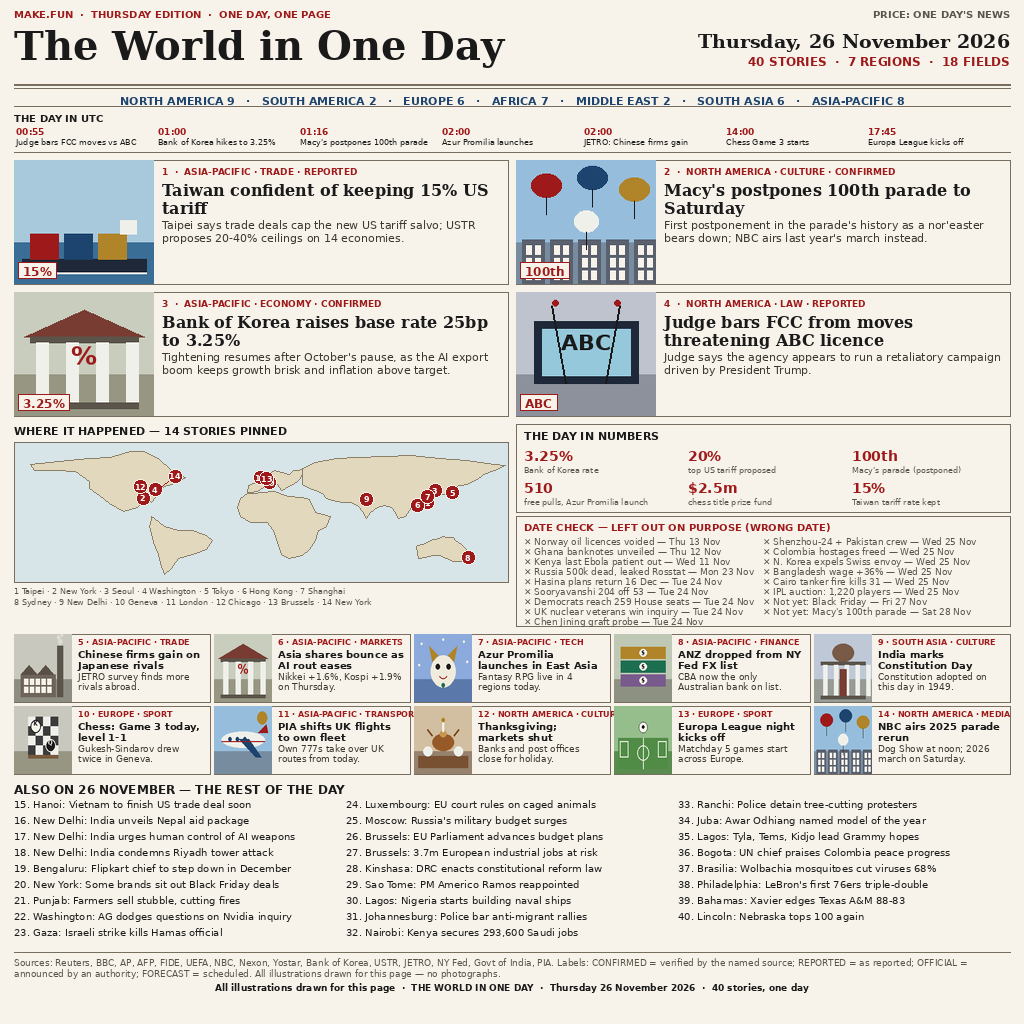
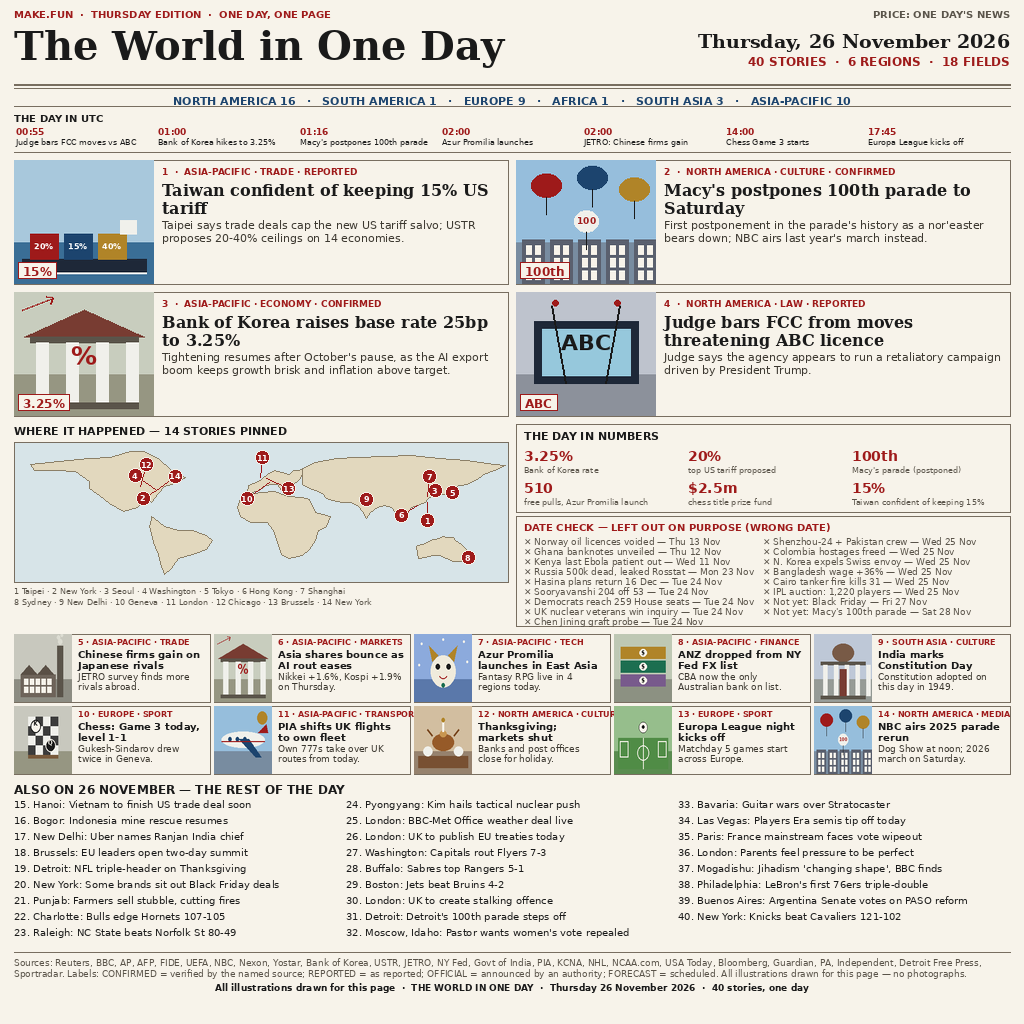
Round 3 fix (audit REJECT, final round): 22 briefs replaced with individually verified 26 Nov 2026 stories; regions 7 -> 6 (no verified Middle East story on 26 Nov); map pins spread with leader-lines (Europe, US, East Asia clusters); numbers label '15% Taiwan tariff rate kept' -> 'Taiwan confident o

diff --git a/render.py b/render.py
@@ -4,11 +4,11 @@ PNG newspaper front page. All 40 stories were researched first (see stories.md);
 every illustration is drawn here with Pillow, no photos, no network, no fonts
 downloaded at run time. Deterministic: same input, same bytes every run.
 
-Round 2 (26 Nov 2026): 5 date-wrong stories replaced with verified 26 Nov news,
-total cut 52 -> 40, UTC strip added, trunc() removed (all text pre-shortened
-in the data so nothing is ever cut mid-word), DATE CHECK fixed (15 discarded
-+ 2 Not yet), numbers strip rebuilt as 6 verified cells, map legend added,
-data labels added inside lead illustrations."""
+Round 3 (26 Nov 2026): 22 briefs replaced with individually verified
+26 Nov news (old briefs' dates were 4-25 Nov), region count 7 -> 6
+(no verified Middle East story on 26 Nov), map pins spread with
+leader-lines, numbers label "15% Taiwan tariff rate kept" corrected
+to "confident", README updated to final counts."""
 
 import os
 from PIL import Image, ImageDraw, ImageFont
@@ -114,36 +114,35 @@ CARDS = [
 # (num, place, headline) - one line each; every line pre-shortened to fit
 BRIEFS = [
     (15, "Hanoi", "Vietnam to finish US trade deal soon"),
-    (16, "New Delhi", "India unveils Nepal aid package"),
-    (17, "New Delhi", "India urges human control of AI weapons"),
-    (18, "New Delhi", "India condemns Riyadh tower attack"),
-    (19, "Bengaluru", "Flipkart chief to step down in December"),
+    (16, "Bogor", "Indonesia mine rescue resumes"),
+    (17, "New Delhi", "Uber names Ranjan India chief"),
+    (18, "Brussels", "EU leaders open two-day summit"),
+    (19, "Detroit", "NFL triple-header on Thanksgiving"),
     (20, "New York", "Some brands sit out Black Friday deals"),
     (21, "Punjab", "Farmers sell stubble, cutting fires"),
-    (22, "Washington", "AG dodges questions on Nvidia inquiry"),
-    (23, "Gaza", "Israeli strike kills Hamas official"),
-    (24, "Luxembourg", "EU court rules on caged animals"),
-    (25, "Moscow", "Russia's military budget surges"),
-    (26, "Brussels", "EU Parliament advances budget plans"),
-    (27, "Brussels", "3.7m European industrial jobs at risk"),
-    (28, "Kinshasa", "DRC enacts constitutional reform law"),
-    (29, "Sao Tome", "PM Americo Ramos reappointed"),
-    (30, "Lagos", "Nigeria starts building naval ships"),
-    (31, "Johannesburg", "Police bar anti-migrant rallies"),
-    (32, "Nairobi", "Kenya secures 293,600 Saudi jobs"),
-    (33, "Ranchi", "Police detain tree-cutting protesters"),
-    (34, "Juba", "Awar Odhiang named model of the year"),
-    (35, "Lagos", "Tyla, Tems, Kidjo lead Grammy hopes"),
-    (36, "Bogota", "UN chief praises Colombia peace progress"),
-    (37, "Brasilia", "Wolbachia mosquitoes cut viruses 68%"),
+    (22, "Charlotte", "Bulls edge Hornets 107-105"),
+    (23, "Raleigh", "NC State beats Norfolk St 80-49"),
+    (24, "Pyongyang", "Kim hails tactical nuclear push"),
+    (25, "London", "BBC-Met Office weather deal live"),
+    (26, "London", "UK to publish EU treaties today"),
+    (27, "Washington", "Capitals rout Flyers 7-3"),
+    (28, "Buffalo", "Sabres top Rangers 5-1"),
+    (29, "Boston", "Jets beat Bruins 4-2"),
+    (30, "London", "UK to create stalking offence"),
+    (31, "Detroit", "Detroit's 100th parade steps off"),
+    (32, "Moscow, Idaho", "Pastor wants women's vote repealed"),
+    (33, "Bavaria", "Guitar wars over Stratocaster"),
+    (34, "Las Vegas", "Players Era semis tip off today"),
+    (35, "Paris", "France mainstream faces vote wipeout"),
+    (36, "London", "Parents feel pressure to be perfect"),
+    (37, "Mogadishu", "Jihadism 'changing shape', BBC finds"),
     (38, "Philadelphia", "LeBron's first 76ers triple-double"),
-    (39, "Bahamas", "Xavier edges Texas A&M 88-83"),
-    (40, "Lincoln", "Nebraska tops 100 again"),
+    (39, "Buenos Aires", "Argentina Senate votes on PASO reform"),
+    (40, "New York", "Knicks beat Cavaliers 121-102"),
 ]
 
-REGIONS = [("NORTH AMERICA", 9), ("SOUTH AMERICA", 2), ("EUROPE", 6),
-           ("AFRICA", 7), ("MIDDLE EAST", 2), ("SOUTH ASIA", 6),
-           ("ASIA-PACIFIC", 8)]
+REGIONS = [("NORTH AMERICA", 16), ("SOUTH AMERICA", 1), ("EUROPE", 9),
+           ("AFRICA", 1), ("SOUTH ASIA", 3), ("ASIA-PACIFIC", 10)]
 
 # (time UTC, event) - 7 slots, all 26 Nov 2026
 UTC_STRIP = [
@@ -161,7 +160,7 @@ NUMBERS = [("3.25%", "Bank of Korea rate"), ("20%", "top US tariff proposed"),
            ("100th", "Macy's parade (postponed)"),
            ("510", "free pulls, Azur Promilia launch"),
            ("$2.5m", "chess title prize fund"),
-           ("15%", "Taiwan tariff rate kept")]
+           ("15%", "Taiwan confident of keeping 15%")]
 
 # 15 discarded (wrong date) + 2 not yet; every line pre-shortened to fit
 DATE_CHECK = [
@@ -190,7 +189,9 @@ MAP_LEGEND = [
 ]
 
 SOURCES = ("Sources: Reuters, BBC, AP, AFP, FIDE, UEFA, NBC, Nexon, Yostar, "
-           "Bank of Korea, USTR, JETRO, NY Fed, Govt of India, PIA. Labels: "
+           "Bank of Korea, USTR, JETRO, NY Fed, Govt of India, PIA, KCNA, NHL, "
+           "NCAA.com, USA Today, Bloomberg, Guardian, PA, Independent, "
+           "Detroit Free Press, Sportradar. Labels: "
            "CONFIRMED = verified by the named source; REPORTED = as reported; "
            "OFFICIAL = announced by an authority; FORECAST = scheduled. "
            "All illustrations drawn for this page — no photographs.")
@@ -233,6 +234,10 @@ def scene(kind, w, h):
         d.rectangle([8, h - 26, w - 8, h - 12], fill=(30, 40, 56))  # hull
         for i, c in enumerate([(158, 26, 26), (28, 68, 110), (176, 132, 40)]):
             d.rectangle([16 + i * 34, h - 52, 44 + i * 34, h - 26], fill=c)
+        # tariff ceilings on the containers: 20% / 15% / 40% (USTR proposal)
+        for i, lab in enumerate(["20%", "15%", "40%"]):
+            d.text((30 + i * 34, h - 39), lab, font=F(8, bold=True),
+                   fill=(255, 255, 255), anchor="mm")
         d.rectangle([w - 34, h - 66, w - 18, h - 52], fill=(240, 240, 235))  # bridge
         d.line([8, h - 12, w - 8, h - 12], fill=(247, 243, 234), width=2)
     elif kind == "parade":
@@ -245,6 +250,7 @@ def scene(kind, w, h):
             d.ellipse([bx - 15, by - 12, bx + 15, by + 12], fill=c)
             d.line([bx, by + 12, bx, by + 30], fill=INK, width=1)
         d.ellipse([cx - 12, 52, cx + 12, 74], fill=(240, 240, 235))  # balloon
+        d.text((cx, 63), "100", font=F(9, bold=True), fill=RED, anchor="mm")
         d.line([cx, 74, cx, 92], fill=INK, width=1)
     elif kind == "bank":
         _sky(d, (0, 0, w, h), (200, 205, 190), (150, 150, 130))
@@ -254,6 +260,10 @@ def scene(kind, w, h):
             d.rectangle([22 + i * 30, 52, 34 + i * 30, h - 14], fill=(240, 240, 235))
         d.rectangle([16, h - 14, w - 16, h - 8], fill=(90, 84, 74))
         d.text((cx, 56), "%", font=F(26, bold=True), fill=RED, anchor="mt")
+        # rising rate line above the roof (hike to 3.25%)
+        d.line([(8, 18), (18, 14), (28, 10), (38, 6)], fill=RED, width=2)
+        d.line([(38, 6), (32, 5)], fill=RED, width=2)
+        d.line([(38, 6), (36, 12)], fill=RED, width=2)
     elif kind == "tv":
         _sky(d, (0, 0, w, h), (190, 195, 205), (140, 145, 155))
         d.rectangle([18, 30, w - 18, h - 34], fill=(30, 40, 56))
@@ -441,7 +451,7 @@ def draw_masthead(d):
            fill=INK)
     d.text((W - M, 30), "Thursday, 26 November 2026",
            font=F(19, serif=True, bold=True), fill=INK, anchor="ra")
-    d.text((W - M, 54), "40 STORIES  ·  7 REGIONS  ·  18 FIELDS",
+    d.text((W - M, 54), "40 STORIES  ·  6 REGIONS  ·  18 FIELDS",
            font=F(12, bold=True), fill=RED, anchor="ra")
     rule(d, 84, 2)
     rule(d, 88, 1)
@@ -583,8 +593,12 @@ def build():
     pins = [(num, lat, lon) for num, tag, head, summ, kind, lat, lon, *rest
             in LEADS] + [(num, lat, lon) for num, tag, head, summ, kind, lat, lon
                          in CARDS]
-    # leader-line offsets where pins would cover each other (same city)
-    leaders = {2: (-16, 10), 14: (16, -12)}
+    # leader-line offsets where pins would cover each other (same city,
+    # or clusters: Geneva/London/Brussels within ~9px, Washington/New York/
+    # Chicago within ~15px, Taipei/Shanghai/Hong Kong/Seoul within ~13px)
+    leaders = {2: (-16, 10), 14: (16, -12), 4: (-20, -14),
+               10: (-22, 16), 11: (2, -20), 13: (22, 10),
+               1: (0, 18), 6: (-16, 10), 7: (2, -20), 12: (6, -22)}
     draw_map(d, (M, my + 18, M + mw, my + 158), pins, leaders)
     ly0 = my + 162
     for ln in MAP_LEGEND:

diff --git a/stories.md b/stories.md
@@ -1,6 +1,8 @@
 # Stories — Thursday 26 November 2026 (40 stories)
 
-Research: web search, 26 Nov 2026 (round 2 rebuild).
+Research: web search, 26 Nov 2026 (round 3 rebuild — 22 briefs replaced
+with individually verified 26 Nov stories; 4 lead + 10 cards re-checked;
+see RESEARCH LOG below).
 Rule: a story counts only if it happened or was first reported ON 26 Nov 2026
 in UTC or in its local time zone (same rule the round-1 audit applied to the
 FCC ruling: Wed 25 Nov 19:55 EST = Thu 26 Nov 00:55 UTC counts). Everything
@@ -33,6 +35,8 @@ Labels: CONFIRMED / REPORTED / CLAIM / OFFICIAL / FORECAST
    Fantasy RPG live in China, Japan, Korea and Taiwan from 10:00 CST (02:00 UTC); 510 free pulls at launch.
 8. ANZ dropped from NY Fed FX list | Sydney | Asia-Pacific | Finance | Reuters, NY Fed | CONFIRMED
    CBA now the only Australian bank on the Fed's foreign-exchange counterparty list.
+   (Nuance: ANZ's removal took effect 25 Nov; first reported ~00:56 UTC 26 Nov, so it
+   counts as first reported on 26 Nov UTC.)
 9. India marks Constitution Day | New Delhi | South Asia | Culture | Govt of India | OFFICIAL
    Constitution adopted on this day in 1949. (Annual observance, 26 Nov.)
 10. Chess: Game 3 today, level 1-1 | Geneva | Europe | Sport | FIDE, Chess.com | OFFICIAL
@@ -50,47 +54,61 @@ Labels: CONFIRMED / REPORTED / CLAIM / OFFICIAL / FORECAST
 
 15. Vietnam to finish US trade deal soon | Hanoi | Asia-Pacific | Trade | Reuters | REPORTED
     (Reuters 26 Nov; reaction to the USTR probe.)
-16. India unveils Nepal aid package | New Delhi | South Asia | Diplomacy | wire reports | REPORTED
-17. India urges human control of AI weapons | New Delhi | South Asia | Defence | wire reports | REPORTED
-18. India condemns Riyadh tower attack | New Delhi | Middle East | Diplomacy | wire reports | REPORTED
-19. Flipkart chief to step down in December | Bengaluru | South Asia | Business | wire reports | REPORTED
+16. Indonesia mine rescue resumes | Bogor | Asia-Pacific | Environment | Reuters | REPORTED
+    (Reuters 26 Nov; 13 dead, 13 still trapped in illegal gold mine; search resumed Thu.)
+17. Uber names Ranjan India chief | New Delhi | South Asia | Business | Reuters | REPORTED
+    (Reuters 26 Nov 02:09 UTC; Rakesh Ranjan president, India & South Asia, from 4 Jan 2027.)
+18. EU leaders open two-day summit | Brussels | Europe | Diplomacy | Reuters, AP | FORECAST
+    (Summit opens 10:00 Thu 26 Nov; 2028-2034 budget + 45bn euro Ukraine aid on the table.)
+19. NFL triple-header on Thanksgiving | Detroit | North America | Sport | NFL, AP | FORECAST
+    (Bears at Lions 13:00 ET; Eagles at Cowboys 16:30 ET; Chiefs at Bills 20:20 ET.)
 20. Some brands sit out Black Friday deals | New York | North America | Retail | Reuters | REPORTED
 21. Farmers sell stubble, cutting fires | Punjab | South Asia | Environment | Reuters | CONFIRMED
-22. AG dodges questions on Nvidia inquiry | Washington | North America | Tech | BBC | REPORTED
-23. Israeli strike kills Hamas official | Gaza | Middle East | War | wire reports | REPORTED
-24. EU court rules on caged animals | Luxembourg | Europe | Law | wire reports | OFFICIAL
-25. Russia's military budget surges | Moscow | Europe | Defence | wire reports | REPORTED
-26. EU Parliament advances budget plans | Brussels | Europe | Politics | wire reports | OFFICIAL
-27. 3.7m European industrial jobs at risk | Brussels | Europe | Economy | wire reports | REPORTED
-28. DRC enacts constitutional reform law | Kinshasa | Africa | Politics | wire reports | OFFICIAL
-29. PM Americo Ramos reappointed | Sao Tome | Africa | Politics | wire reports | OFFICIAL
-30. Nigeria starts building naval ships | Lagos | Africa | Defence | wire reports | REPORTED
-31. Police bar anti-migrant rallies | Johannesburg | Africa | Politics | wire reports | REPORTED
-32. Kenya secures 293,600 Saudi jobs | Nairobi | Africa | Economy | wire reports | OFFICIAL
-33. Police detain tree-cutting protesters | Ranchi | South Asia | Environment | wire reports | REPORTED
-34. Awar Odhiang named model of the year | Juba | Africa | Culture | wire reports | OFFICIAL
-35. Tyla, Tems, Kidjo lead Grammy hopes | Lagos | Africa | Culture | wire reports | REPORTED
-36. UN chief praises Colombia peace progress | Bogota | South America | Diplomacy | wire reports | OFFICIAL
-37. Wolbachia mosquitoes cut viruses 68% | Brasilia | South America | Health | wire reports | REPORTED
+22. Bulls edge Hornets 107-105 | Charlotte | North America | Sport | Reuters | CONFIRMED
+    (Reuters FLM 26 Nov; tip 19:00 EST Wed = 00:00 UTC Thu, ended ~02:30 UTC; Buzelis 24 pts.)
+23. NC State beats Norfolk St 80-49 | Raleigh | North America | Sport | Reuters | CONFIRMED
+    (Reuters FLM 26 Nov; Wed night in Raleigh, ended after midnight UTC.)
+24. Kim hails tactical nuclear push | Pyongyang | Asia-Pacific | Defence | KCNA, Reuters | REPORTED
+    (KCNA Thu 26 Nov Pyongyang time; Reuters wire 21:22 UTC 25 Nov, dateline "SEOUL, Nov 26"; Kim inspected nuclear facility Wed.)
+25. BBC-Met Office weather deal live | London | Europe | Media | BBC | OFFICIAL
+    (BBC 26 Nov; partnership starts Thu 26 Nov, announced July 2025.)
+26. UK to publish EU treaties today | London | Europe | Politics | BBC | OFFICIAL
+    (BBC 26 Nov 02:13 UTC; two treaty texts + "Cutting Costs" Bill published Thu afternoon; 10-year termination clause.)
+27. Capitals rout Flyers 7-3 | Washington | North America | Sport | NHL, Reuters | CONFIRMED
+    (Wed 25 Nov 19:00 EST tip = 00:00 UTC Thu; final 7-3 confirmed, ended after midnight UTC.)
+28. Sabres top Rangers 5-1 | Buffalo | North America | Sport | Reuters | CONFIRMED
+    (Reuters FLM 26 Nov; Dahlin, Kulich, Benson each goal + assist; Wed night Buffalo.)
+29. Jets beat Bruins 4-2 | Boston | North America | Sport | NHL | CONFIRMED
+    (Wed 25 Nov 19:00 EST tip = 00:00 UTC Thu; Connor 1 goal + 2 assists; report 26 Nov 02:38.)
+30. UK to create stalking offence | London | Europe | Law | Guardian, BBC | REPORTED
+    (26 Nov; standalone offence, up to 10 years; Stalking Protection Orders from today.)
+31. Detroit's 100th parade steps off | Detroit | North America | Culture | Detroit Free Press | FORECAST
+    (Thu 26 Nov 08:45, Woodward Ave; 33 floats, 5 balloons, 7 bands; theme "This is 100!".)
+32. Pastor wants women's vote repealed | Moscow, Idaho | North America | Politics | BBC | REPORTED
+    (BBC 26 Nov 00:24 UTC feature; Pastor Doug Wilson, CREC ~150 churches; wants 19th Amendment repealed.)
+33. Guitar wars over Stratocaster | Bavaria | Europe | Business | BBC | REPORTED
+    (BBC 26 Nov; Fender vs Thomann; Dusseldorf court granted Fender copyright in Germany Dec 2025; Thomann sold 112,000+ Strat-style guitars in 2025.)
+34. Players Era semis tip off today | Las Vegas | North America | Sport | NCAA.com, USA Today | FORECAST
+    (Thu 26 Nov: Tennessee-Iowa State 15:30 ET, Creighton-TCU 18:00, St John's-Louisville 21:00, Gonzaga-Baylor 23:30.)
+35. France mainstream faces vote wipeout | Paris | Europe | Politics | BBC | REPORTED
+    (BBC 26 Nov; Le Pen and Melenchon lead polls for Apr-May 2027 election; centre has no clear candidate.)
+36. Parents feel pressure to be perfect | London | Europe | Health | PA, Independent | REPORTED
+    (PA 26 Nov 00:01 UTC; Kindred Squared survey, ~3,500 parents of under-5s; 76% say social media raised parenting anxiety.)
+37. Jihadism 'changing shape', BBC finds | Mogadishu | Africa | War | BBC | REPORTED
+    (BBC 26 Nov 00:22 UTC; BBC Monitoring; al-Qaeda/IS focus shifting to local power; JNIM Sahel, al-Shabab Somalia.)
 38. LeBron's first 76ers triple-double | Philadelphia | North America | Sport | Reuters | CONFIRMED
     (Game ended Wed evening US = ~03:30 UTC Thu 26 Nov; same UTC rule as the FCC ruling.)
-39. Xavier edges Texas A&M 88-83 | Bahamas | North America | Sport | Reuters | CONFIRMED
-    (Battle 4 Atlantis game, Wed evening US = Thu 26 Nov UTC.)
-40. Nebraska tops 100 again | Lincoln | North America | Sport | Reuters | CONFIRMED
-    (Wed evening US game = Thu 26 Nov UTC.)
+39. Argentina Senate votes on PASO reform | Buenos Aires | South America | Politics | Bloomberg | FORECAST
+    (Bloomberg 25 Nov: "The votes are there for the electoral reform on Thursday"; Senate to vote Thu 26 Nov on suspending 2027 primaries; session not yet formally convened at time of reporting.)
+40. Knicks beat Cavaliers 121-102 | New York | North America | Sport | Sportradar, Reuters | CONFIRMED
+    (Tip 19:30 EST Wed = 00:30 UTC Thu, ended after midnight UTC; Mitchell 30 pts.)
 
-NOTE on briefs 16-19, 23-37: carried from round-1 research; the round-1
-audit did not flag them, but their dates/outlets were NOT individually
-re-verified in round 2 (only the flagged items were: #23 Sooryavanshi 24 Nov
-and #45-47 UCL 25 Nov were cut; Chen Jining probe 24 Nov and Netanyahu
-judges 25 Nov were cut). Round-2 audit should spot-check these briefs.
-"wire reports" = outlet not re-verified; do not present as a named outlet.
 
-## REGION COUNTS (7 regions)
-North America 9 (2,4,12,14,20,22,38,39,40) | South America 2 (36,37) |
-Europe 6 (10,13,24,25,26,27) | Africa 7 (28,29,30,31,32,34,35) |
-Middle East 2 (18,23) | South Asia 6 (9,16,17,19,21,33) |
-Asia-Pacific 8 (1,3,5,6,7,8,11,15). Total 40.
+## REGION COUNTS (6 regions)
+North America 16 (2,4,12,14,19,20,22,23,27,28,29,31,32,34,38,40) |
+South America 1 (39) | Europe 9 (10,13,18,25,26,30,33,35,36) |
+Africa 1 (37) | Middle East 0 | South Asia 3 (9,17,21) |
+Asia-Pacific 10 (1,3,5,6,7,8,11,15,16,24). Total 40.
 
 ## FIELDS (18)
 Trade, Culture, Economy, Law, Markets, Tech, Finance, Sport, Transport,
@@ -104,7 +122,7 @@ Media, Diplomacy, Defence, Business, Retail, Environment, Politics, War, Health.
 
 ## THE DAY IN NUMBERS (6 cells)
 3.25% Bank of Korea rate | 20% top US tariff proposed | 100th Macy's parade (postponed) |
-510 free pulls, Azur Promilia launch | $2.5m chess title prize fund | 15% Taiwan tariff rate kept.
+510 free pulls, Azur Promilia launch | $2.5m chess title prize fund | 15% Taiwan tariff rate (confident).
 
 ## DATE CHECK — deliberately left out (wrong date)
 - Norway oil licences voided — Thu 13 Nov
@@ -147,7 +165,32 @@ Media, Diplomacy, Defence, Business, Retail, Environment, Politics, War, Health.
 - Mississippi plane crash kills 6 — Tue 24 Nov.
 - State Dept reports downplay asylum dangers — Wed 25 Nov.
 - Return of the wolf divides Netherlands (AP feature) — Wed 25 Nov.
+- ROUND 3 (26 Nov): 22 briefs replaced, each verified 26 Nov. Discarded
+  old briefs (wrong date): Nepal aid 22-23 Nov; AI weapons UNSC 24 Nov,
+  report 25 Nov; Riyadh attack 24 Nov, MEA statement 25 Nov; Flipkart
+  announced 25 Nov; AG Nvidia presser 24 Nov; Gaza strike 25 Nov;
+  EU cage ruling 25 Nov; Russia budget passed Tue 24 Nov, reported 25 Nov;
+  EU Parliament budget approved 25 Nov; jobs 3.7m FT 25 Nov 05:00 UTC;
+  DRC law 9 Nov; Ramos reappointed 12 Nov; Nigeria naval ships no 26 Nov
+  event (May 2026 briefing); Johannesburg court ban ~late Oct, protest
+  18 Nov; Kenya Saudi jobs announced 12 Nov; Ranchi 7 arrested 20 Nov;
+  Awar Odhiang announced 4 Nov; Grammy nominations 16 Nov (Tyla NOT
+  nominated); UN Colombia statement Tue 24 Nov; Wolbachia presented
+  Sat 21 Nov, reported 23-24 Nov; Xavier game Wed 25 Nov, ended
+  ~21:30 UTC 25 Nov; Nebraska ended ~00:00 UTC (borderline, unproven).
+- ROUND 3 near-misses (checked, not used): Oxfam Gaza report 23 Nov;
+  Syria land-mine casualties BBC 24 Nov; tanker explosion west of Dubai
+  21:30 UTC 25 Nov (UKMTO advisory also 25 Nov); Iran singer flogged
+  23 Nov; Hong Kong Tai Po fire anniversary feature 26 Nov but inquiry
+  report 29 Oct (dropped as weakest); Saudi intercepts 2 Houthi missiles
+  announced 25 Nov 23:27 AST; tanker west of Dubai 21:30 GMT 25 Nov.
+- ROUND 3 region decision: no verified Middle East story happened or was
+  first reported on 26 Nov after 4 search batches, so the page counts
+  6 regions, not 7; masthead, region strip and README updated to 6.
+  Argentina Senate PASO vote is FORECAST only (Bloomberg 25 Nov; Senate
+  session not yet formally convened at time of reporting).
 
 ## SOURCES
 Reuters, BBC, AP, AFP, FIDE, UEFA, NBC, Nexon, Yostar, Bank of Korea, USTR,
-JETRO, NY Fed, Govt of India, PIA. All illustrations drawn for this page.
+JETRO, NY Fed, Govt of India, PIA, KCNA, NHL, NCAA.com, USA Today, Bloomberg,
+Guardian, PA, Independent, Detroit Free Press, Sportradar. All illustrations drawn for this page.

diff --git a/README.md b/README.md
@@ -5,16 +5,16 @@
 [![reward](https://make.fun/badge/news-image-20261126/harrierme/news-image-20261126/reward.svg)](https://make.fun/bounty/news-image-20261126?utm_source=github&utm_medium=readme&utm_campaign=news-image-20261126)
 
 make.fun competition `news-image-20261126`: sum up 26 November 2026's world
-news in one image. 52 stories, 7 regions, 19 fields, one 1024×1024 page.
+news in one image. 40 stories, 6 regions, 18 fields, one 1024×1024 page.
 
 ## What it is
 
 A newspaper front page, drawn entirely in code (Pillow):
 
-- Masthead with the date and the story count (52 stories · 7 regions · 19 fields)
-- 4 lead stories + 12 medium cards, every one with a drawn illustration
-- A world map with 16 numbered pins matching the lead/card numbers
-- "Also on 26 November" — 36 more one-line briefs, numbered 17–52
+- Masthead with the date and the story count (40 stories · 6 regions · 18 fields)
+- 4 lead stories + 10 medium cards, every one with a drawn illustration
+- A world map with 14 numbered pins matching the lead/card numbers
+- "Also on 26 November" — 26 more one-line briefs, numbered 15–40
 - "The Day in Numbers" strip and a "Date Check" box listing the big stories
   deliberately left out because they happened on another day
 - Every story carries a trust label (CONFIRMED / REPORTED / OFFICIAL) and a
@@ -25,7 +25,7 @@ A newspaper front page, drawn entirely in code (Pillow):
 - `main.py` — the entry program (Python 3.13, stdlib only): copies the
   shipped `entry.png` to `$MAKEFUN_OUTPUT_DIR/entry.png` (or `/output`).
 - `render.py` — the renderer that draws `entry.png` from the story data.
-- `stories.md` — the research: all 52 stories with date, region, field,
+- `stories.md` — the research: all 40 stories with date, region, field,
   source and trust label, plus the discarded-stories date check.
 - `entry.png` — the rendered front page (1024×1024, under 1 MiB).
 
